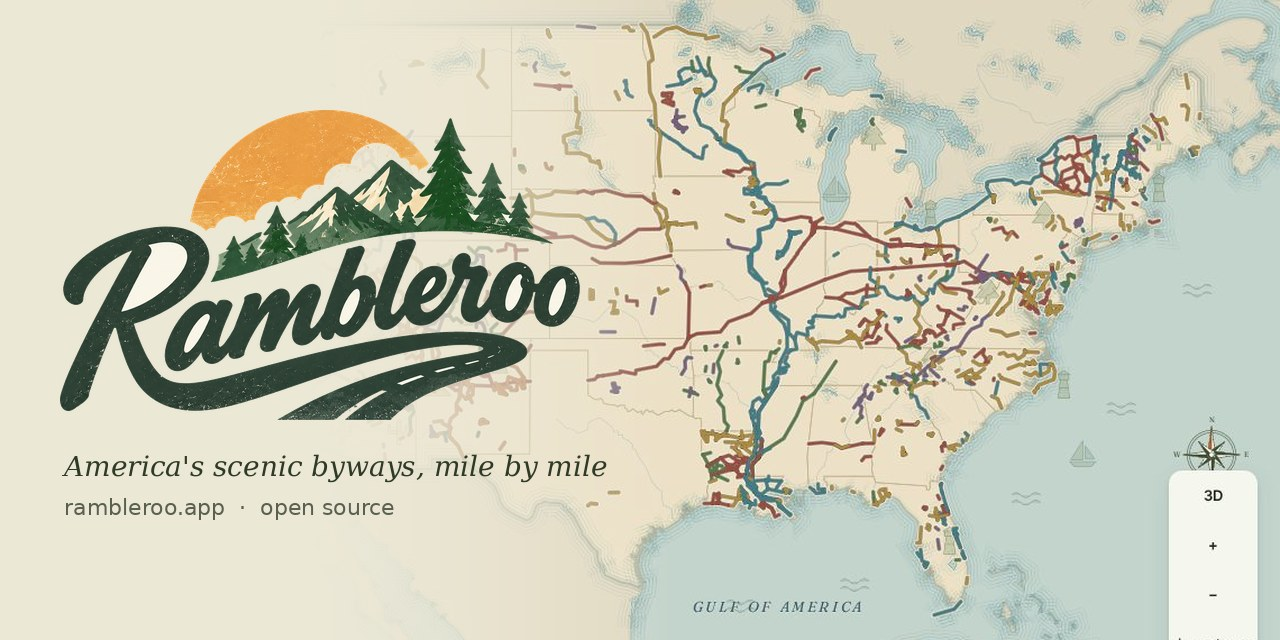
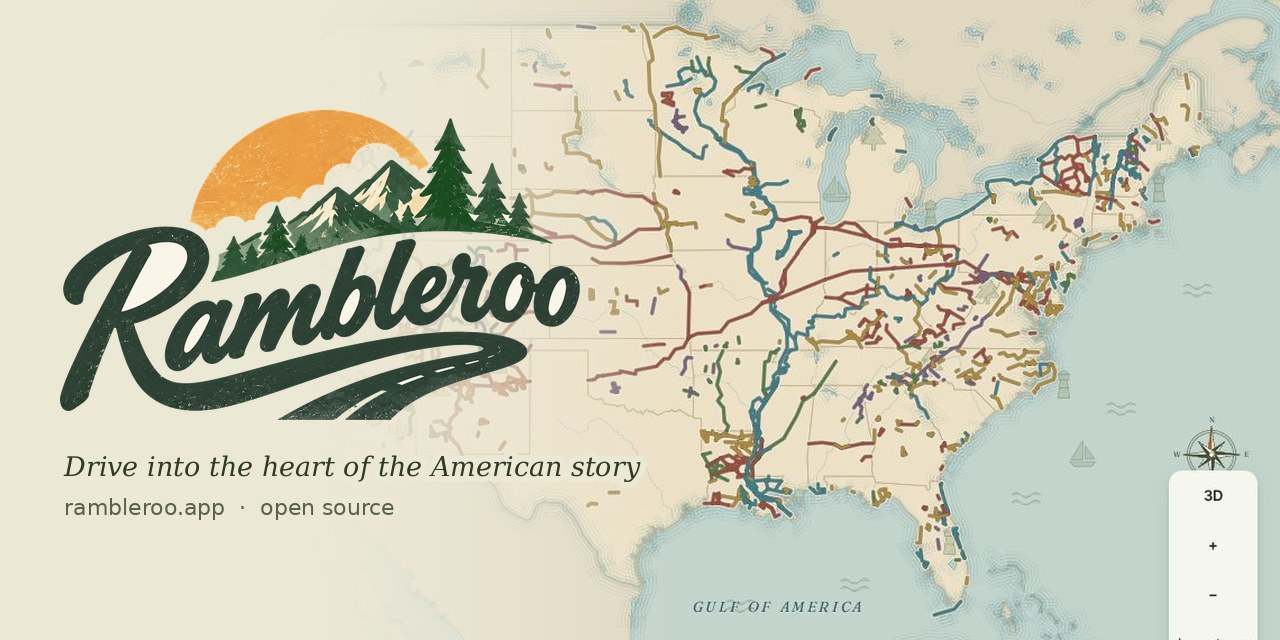
Use Rei's wording: About heading "America's scenic byways", description and social preview "Drive into the heart of the American story"

Changed region(s): [[0.0312, 0.7188, 0.5, 0.75]]

diff --git a/src/features/about/AboutPage.tsx b/src/features/about/AboutPage.tsx
@@ -12,7 +12,7 @@ export default function AboutPage() {
   return (
     <main className={styles.page}>
       <span className="kicker">About the data</span>
-      <h1>Scenic roads of America, mile by mile.</h1>
+      <h1>America's scenic byways</h1>
       <p>
         Rambleroo brings together {byways.length ? usdot.toLocaleString() : '…'} scenic byways from the USDOT source layer,{' '}
         {byways.length ? stateLayers : '…'} more from state DOT route layers, and {byways.length ? classics : '…'} classic drives that are

diff --git a/index.html b/index.html
@@ -11,7 +11,7 @@
     <meta name="apple-mobile-web-app-status-bar-style" content="default" />
     <meta name="apple-mobile-web-app-title" content="Rambleroo" />
     <title>Rambleroo</title>
-    <meta name="description" content="America's scenic byways, mile by mile." />
+    <meta name="description" content="Drive into the heart of the American story." />
     <meta name="theme-color" content="#E9EADF" />
   </head>
   <body>
